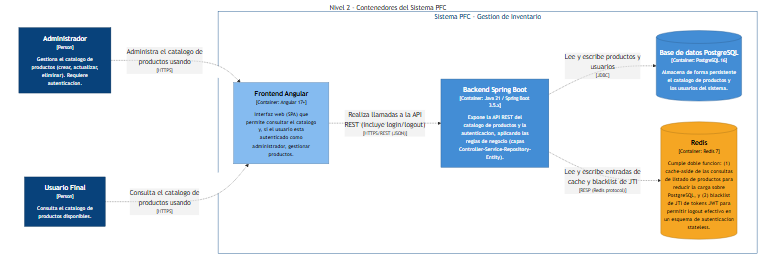
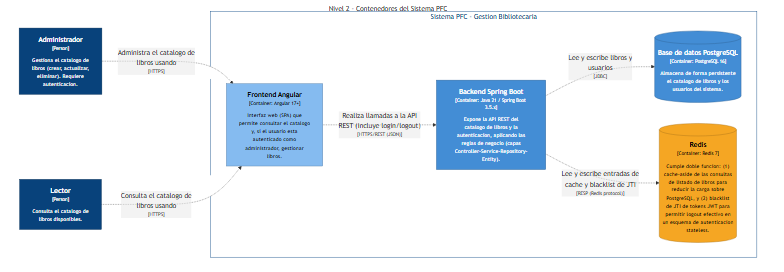
docs: actualizar C4 y ADR al dominio Libro (gestion bibliografica)

diff --git a/docs/adr/ADR-001-arquitectura-en-capas.md b/docs/adr/ADR-001-arquitectura-en-capas.md
@@ -12,7 +12,7 @@ Dos criterios pesaron más que cualquier otro en esta decisión:
 
 **Carga cognitiva del equipo (team cognitive load).** Un equipo de 3 personas tiene capacidad limitada para sostener complejidad operativa simultánea: control de versiones, base de datos, cache, autenticación y, si hubiera microservicios, además service discovery, comunicación entre servicios, tracing distribuido y despliegue independiente por servicio. Repartir esa carga entre microservicios no reduce el trabajo total, lo multiplica en superficie de coordinación (contratos entre servicios, versionado de APIs internas, consistencia eventual) sin que el equipo tenga el tamaño para paralelizar ese trabajo de forma efectiva.
 
-**Falacias de los sistemas distribuidos (Peter Deutsch).** Microservicios asumen que la red es confiable, la latencia es cero, el ancho de banda es infinito y la topología no cambia — ninguna de esas suposiciones es gratis, y cada una que se viola introduce un modo de fallo nuevo (timeouts, reintentos, circuit breakers, sagas para transacciones distribuidas) que hay que diseñar, implementar y testear. Para un catálogo de productos con CRUD y autenticación, el dominio no tiene fronteras naturales que justifiquen pagar ese costo: no hay equipos distintos dueños de subdominios distintos, ni necesidad de escalar partes del sistema de forma independiente.
+**Falacias de los sistemas distribuidos (Peter Deutsch).** Microservicios asumen que la red es confiable, la latencia es cero, el ancho de banda es infinito y la topología no cambia — ninguna de esas suposiciones es gratis, y cada una que se viola introduce un modo de fallo nuevo (timeouts, reintentos, circuit breakers, sagas para transacciones distribuidas) que hay que diseñar, implementar y testear. Para un catálogo de libros con CRUD y autenticación, el dominio no tiene fronteras naturales que justifiquen pagar ese costo: no hay equipos distintos dueños de subdominios distintos, ni necesidad de escalar partes del sistema de forma independiente.
 
 ## Decisión
 
@@ -22,9 +22,13 @@ Adoptamos una arquitectura monolítica en capas: `Controller` (REST, validación
 
 **Positivas:** ciclo de desarrollo simple (un solo proyecto Maven, un solo `mvn spring-boot:run`), transacciones ACID nativas de Postgres sin necesidad de sagas, debugging con stack traces locales completos, curva de entrada baja para los 3 integrantes.
 
-**Negativas:** escalado es vertical o por réplica completa del monolito, no por componente; un cambio en `entity/Producto` puede forzar recompilar y redesplegar todo el sistema aunque solo afecte una capa; si el proyecto creciera más allá del alcance académico, el acoplamiento entre módulos de negocio dentro del mismo código podría volverse un problema de mantenibilidad a largo plazo.
+**Negativas:** escalado es vertical o por réplica completa del monolito, no por componente; un cambio en `entity/Libro` puede forzar recompilar y redesplegar todo el sistema aunque solo afecte una capa; si el proyecto creciera más allá del alcance académico, el acoplamiento entre módulos de negocio dentro del mismo código podría volverse un problema de mantenibilidad a largo plazo.
 
 ## Alternativas consideradas
 
-- **Microservicios**: descartado por el costo de coordinación (service discovery, comunicación de red entre servicios, consistencia eventual) desproporcionado frente al tamaño del equipo (3 personas) y del dominio (un catálogo de productos). Hubiera introducido las falacias de sistemas distribuidos sin ningún beneficio real de escalabilidad o de organización por equipos independientes.
+- **Microservicios**: descartado por el costo de coordinación (service discovery, comunicación de red entre servicios, consistencia eventual) desproporcionado frente al tamaño del equipo (3 personas) y del dominio (un catálogo de libros). Hubiera introducido las falacias de sistemas distribuidos sin ningún beneficio real de escalabilidad o de organización por equipos independientes.
 - **Arquitectura hexagonal / puertos y adaptadores**: se consideró brevemente por el desacoplamiento que ofrece entre dominio e infraestructura (JPA, Redis, HTTP quedarían detrás de puertos), pero se descartó por el sobrecosto de abstracción (interfaces + adaptadores adicionales) que no se justifica para un proyecto académico de este tamaño y plazo; el patrón en capas ya da separación suficiente entre HTTP, negocio y persistencia para los fines de la práctica.
+
+## Nota de contexto
+
+Este ejercicio usa el dominio de gestión bibliotecaria como caso de práctica de la Unidad III de Aplicaciones Web, independiente del repositorio del Proyecto Fin de Curso real del autor.

diff --git a/docs/adr/ADR-003-redis-cache-y-blacklist-jwt.md b/docs/adr/ADR-003-redis-cache-y-blacklist-jwt.md
@@ -8,7 +8,7 @@ Aceptado
 
 El backend tiene dos necesidades de estado rápido y volátil que no son responsabilidad natural de PostgreSQL:
 
-1. **Cache de lectura**: el listado paginado de productos (`GET /api/productos`) es la consulta principal del PFC y, como todo catálogo, tiene una proporción de lecturas mucho mayor que de escrituras (crear/actualizar/eliminar un producto es comparativamente infrecuente frente a listarlos). Eso hace del **cache-aside** el patrón correcto frente a read-through/write-through/write-behind: la aplicación controla explícitamente cuándo lee del cache y cuándo lo invalida (`@Cacheable`/`@CacheEvict` con `allEntries=true` en `crear`/`actualizar`/`eliminar`), sin necesitar que cada escritura pase obligatoriamente por el cache (write-through) ni asumir el riesgo de pérdida de datos de un buffer asíncrono (write-behind), que no se justifica para este volumen de escritura.
+1. **Cache de lectura**: el listado paginado de libros (`GET /api/libros`) es la consulta principal del PFC y, como todo catálogo, tiene una proporción de lecturas mucho mayor que de escrituras (crear/actualizar/eliminar un libro es comparativamente infrecuente frente a listarlos). Eso hace del **cache-aside** el patrón correcto frente a read-through/write-through/write-behind: la aplicación controla explícitamente cuándo lee del cache y cuándo lo invalida (`@Cacheable`/`@CacheEvict` con `allEntries=true` en `crear`/`actualizar`/`eliminar`), sin necesitar que cada escritura pase obligatoriamente por el cache (write-through) ni asumir el riesgo de pérdida de datos de un buffer asíncrono (write-behind), que no se justifica para este volumen de escritura.
 
 2. **Invalidación de JWT en logout**: con autenticación stateless, un JWT firmado no se puede revocar por diseño. Implementamos una blacklist de `jti` (verificado con evidencia real: login emite cookie con JWT, logout agrega el `jti` a Redis con TTL igual al tiempo restante del token, y la reutilización de la cookie post-logout efectivamente devuelve 401).
 
@@ -18,7 +18,7 @@ El backend tiene dos necesidades de estado rápido y volátil que no son respons
 
 ## Decisión
 
-Redis 7 cumple ambas funciones dentro del mismo backend: cache-aside (`RedisCacheManager`, TTL 5 min) y blacklist de `jti` (`StringRedisTemplate`, TTL = tiempo restante del token), como namespaces de key distintos (`productos_listado::*` vs `jwt_blacklist:*`) sobre la misma instancia.
+Redis 7 cumple ambas funciones dentro del mismo backend: cache-aside (`RedisCacheManager`, TTL 5 min) y blacklist de `jti` (`StringRedisTemplate`, TTL = tiempo restante del token), como namespaces de key distintos (`libros_listado::*` vs `jwt_blacklist:*`) sobre la misma instancia.
 
 ## Consecuencias
 
@@ -34,3 +34,7 @@ Existe riesgo real de stampede en dos escenarios, ninguno mitigado hoy: (1) expi
 
 - **Memcached**: descartado por carecer de estructuras de datos ricas y de persistencia opcional; hubiera cubierto el cache-aside pero no aportaba nada adicional frente a Redis para justificar tener dos motores o renunciar a la flexibilidad futura.
 - **Tabla de tokens revocados en PostgreSQL con limpieza por cron**: descartada porque exige infraestructura de limpieza (job programado) que Redis resuelve de forma nativa con TTL por key, sin código ni proceso adicional.
+
+## Nota de contexto
+
+Este ejercicio usa el dominio de gestión bibliotecaria como caso de práctica de la Unidad III de Aplicaciones Web, independiente del repositorio del Proyecto Fin de Curso real del autor.

diff --git a/docs/adr/ADR-002-angular-vs-react-frontend.md b/docs/adr/ADR-002-angular-vs-react-frontend.md
@@ -23,9 +23,13 @@ Usamos Angular 17+ para el frontend, consumiendo la API REST del backend (incluy
 
 **Positivas:** estructura de proyecto uniforme desde el `angular.json`/CLI, menos decisiones de "qué librería usar para X" que resolver como equipo, TypeScript reforzado end-to-end (backend en Java tipado, frontend en TS tipado), curva de aprendizaje guiada por la documentación oficial de Angular.
 
-**Negativas:** mayor verbosidad inicial que React para componentes simples; RxJS (usado internamente por `HttpClient` y el router) tiene su propia curva de aprendizaje que el equipo debe asumir sin experiencia previa; al ser una decisión impuesta, el equipo no evaluó exhaustivamente si el dominio del proyecto (un catálogo de productos con CRUD) realmente necesita la robustez de un framework completo frente a una solución más liviana.
+**Negativas:** mayor verbosidad inicial que React para componentes simples; RxJS (usado internamente por `HttpClient` y el router) tiene su propia curva de aprendizaje que el equipo debe asumir sin experiencia previa; al ser una decisión impuesta, el equipo no evaluó exhaustivamente si el dominio del proyecto (un catálogo de libros con CRUD) realmente necesita la robustez de un framework completo frente a una solución más liviana.
 
 ## Alternativas consideradas
 
 - **React**: descartada porque el enunciado exige Angular, pero técnicamente hubiera requerido ensamblar manualmente router (React Router), cliente HTTP (Axios/fetch) y manejo de formularios (Formik/React Hook Form), con más decisiones de integración para un equipo sin experiencia previa consolidada en frontend.
 - **Vue**: no evaluada en profundidad por la misma razón (restricción del enunciado); en términos generales ofrece una curva de aprendizaje más suave que Angular, pero un ecosistema y comunidad más pequeños que ambos, y tampoco era una opción permitida por la consigna.
+
+## Nota de contexto
+
+Este ejercicio usa el dominio de gestión bibliotecaria como caso de práctica de la Unidad III de Aplicaciones Web, independiente del repositorio del Proyecto Fin de Curso real del autor.